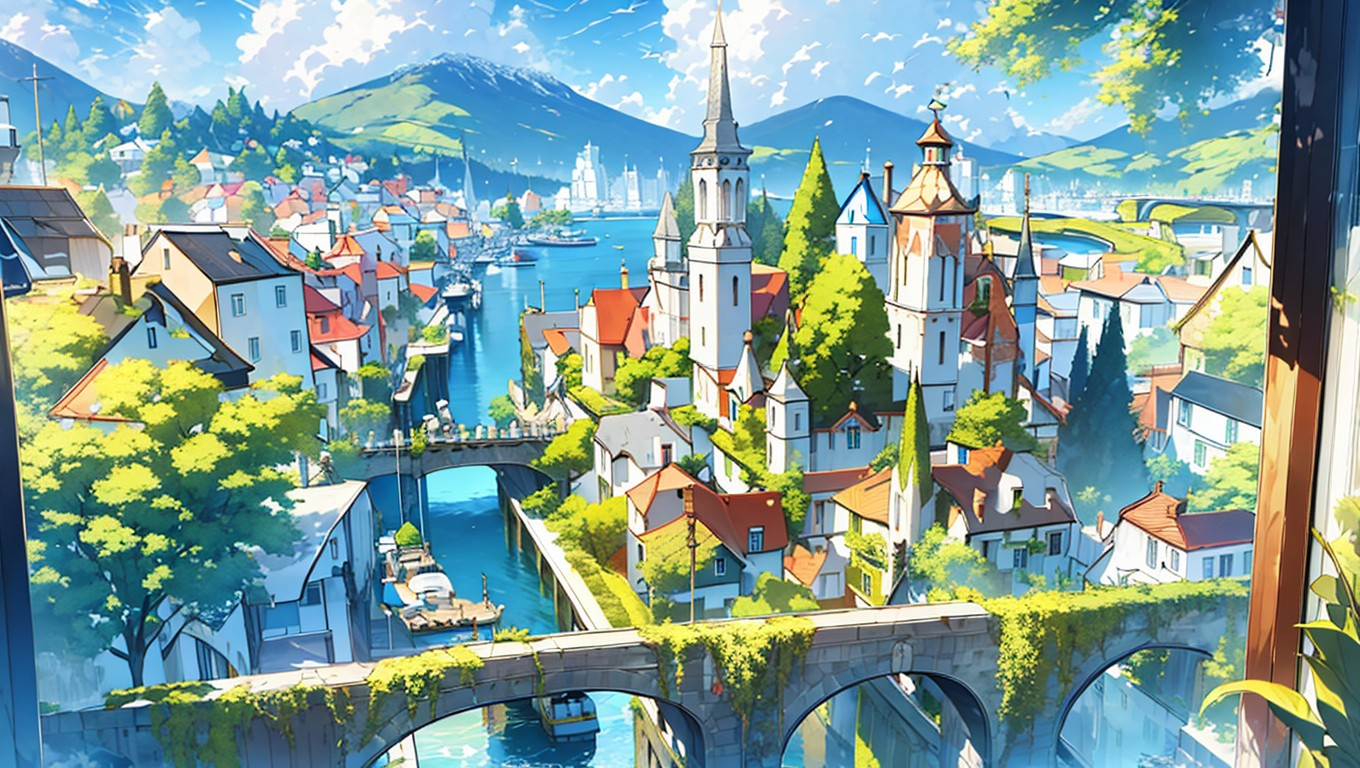
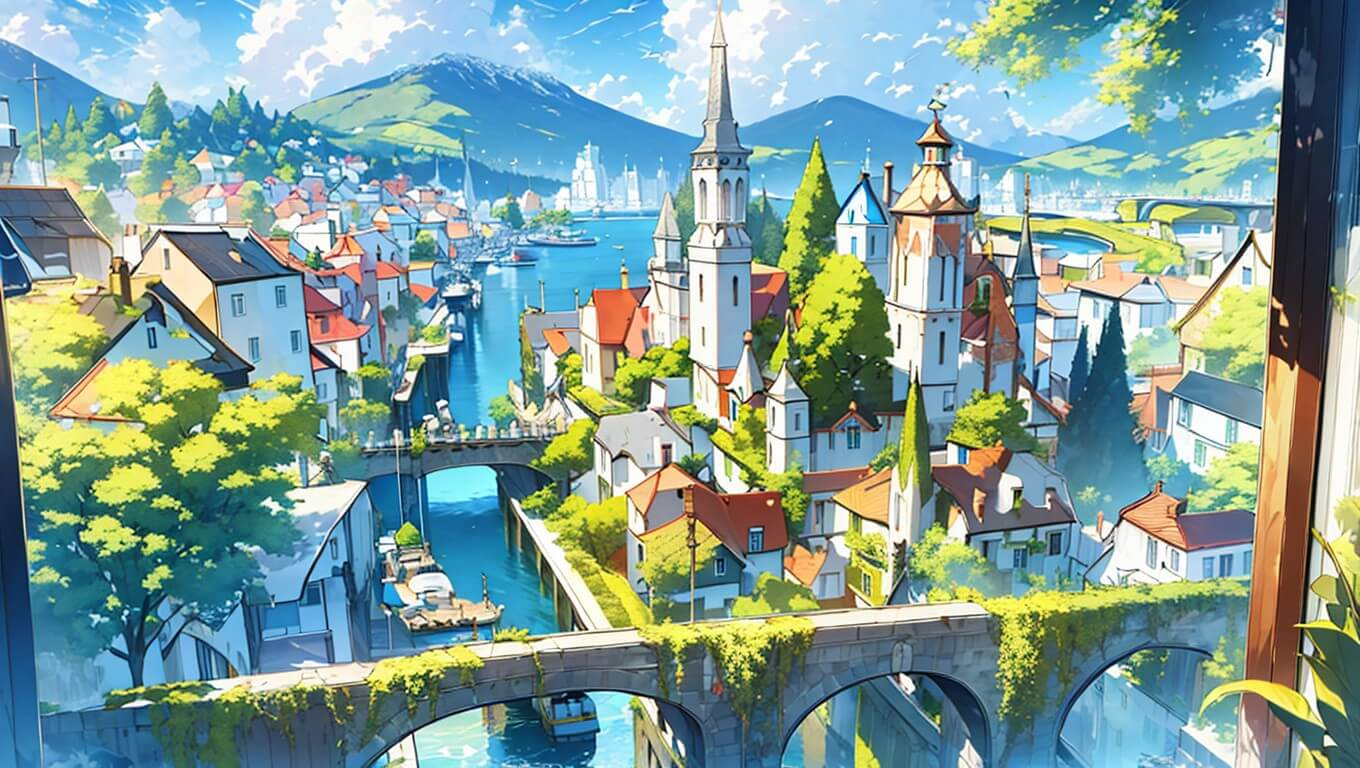
Compressão de imagem

diff --git a/index.html b/index.html
@@ -15,7 +15,7 @@
     <meta property="og:type" content="website">
     <meta property="og:title" content="Teste Repo">
     <meta property="og:description" content="Repositório de testes html, css e js">
-    <meta property="og:image:secure_url" itemprop="image" content="https://cleytonferreira.github.io/teste-repo/assets/9e4ed1a0.jpg">
+    <meta property="og:image" itemprop="image" content="https://cleytonferreira.github.io/teste-repo/assets/9e4ed1a0.jpg">
     <meta property="og:image:width" content="256">
     <meta property="og:image:height" content="256">
 
